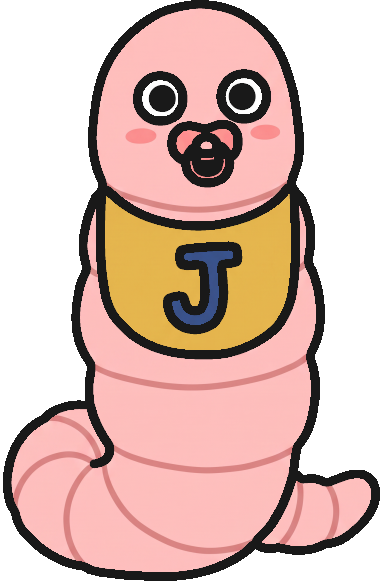
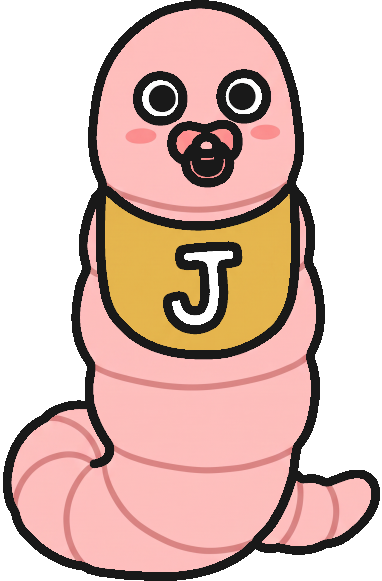
« J » blanc sur la chasuble du Petit des Vers (DP.2)
Claude-Session: https://claude.ai/code/session_01QntoMPVFQehffZzndZXbVa

Changed region(s): [[0.4319, 0.4337, 0.6047, 0.5577]]

diff --git a/docs/decisions.md b/docs/decisions.md
@@ -398,3 +398,5 @@ léger éventail, puis demandé qu'on voie mieux quand c'est à l'autre de jouer
   le garde. Ambiguïté : « sur les cartes » lu comme « partout où l'élève porte sa chasuble » ; les
   badges seuls (punis au bureau de la CPE, élève plaqué, skin « Jetons ») restent,
   car il n'y a pas d'élève dessiné à côté.
+- **DP.2 — « J » blanc sur la chasuble du Petit des Vers** (et de sa tenue miroir), comme les
+  autres numéros : le bleu marine du dessin est passé en blanc, trait noir inchangé.
